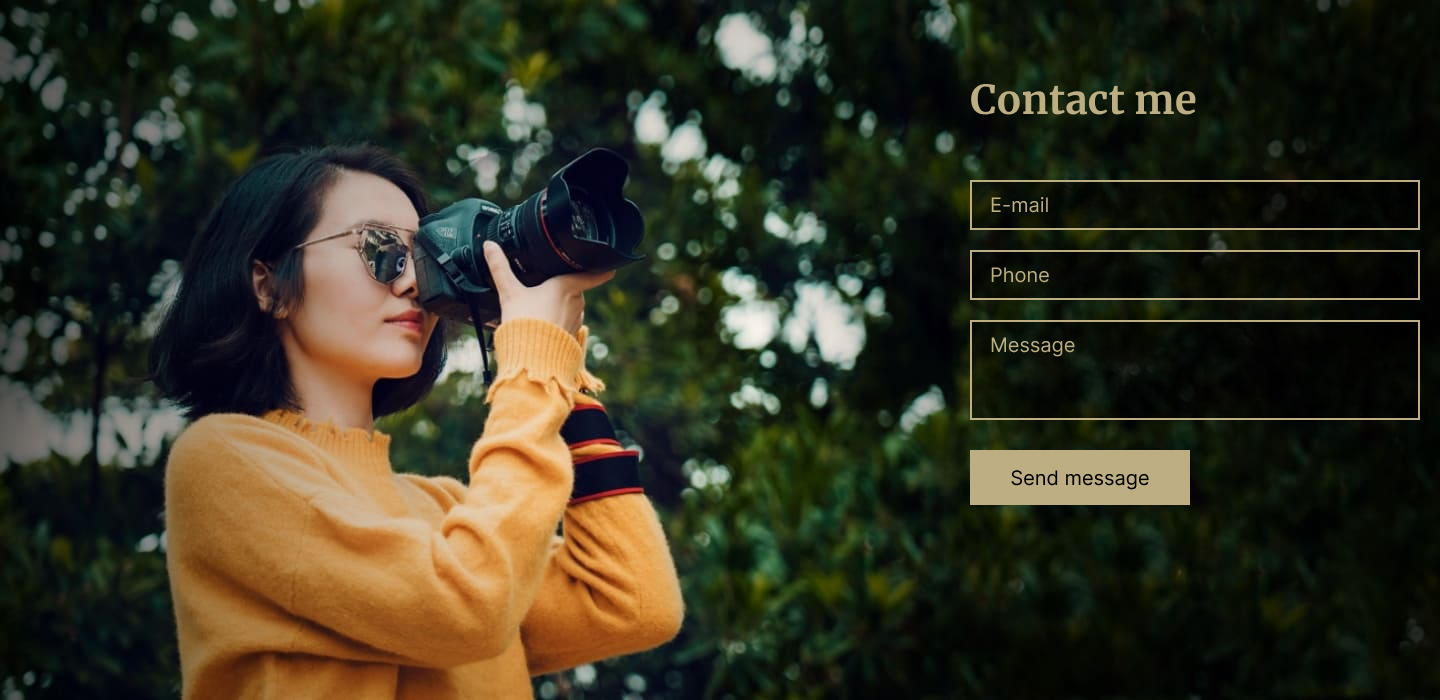
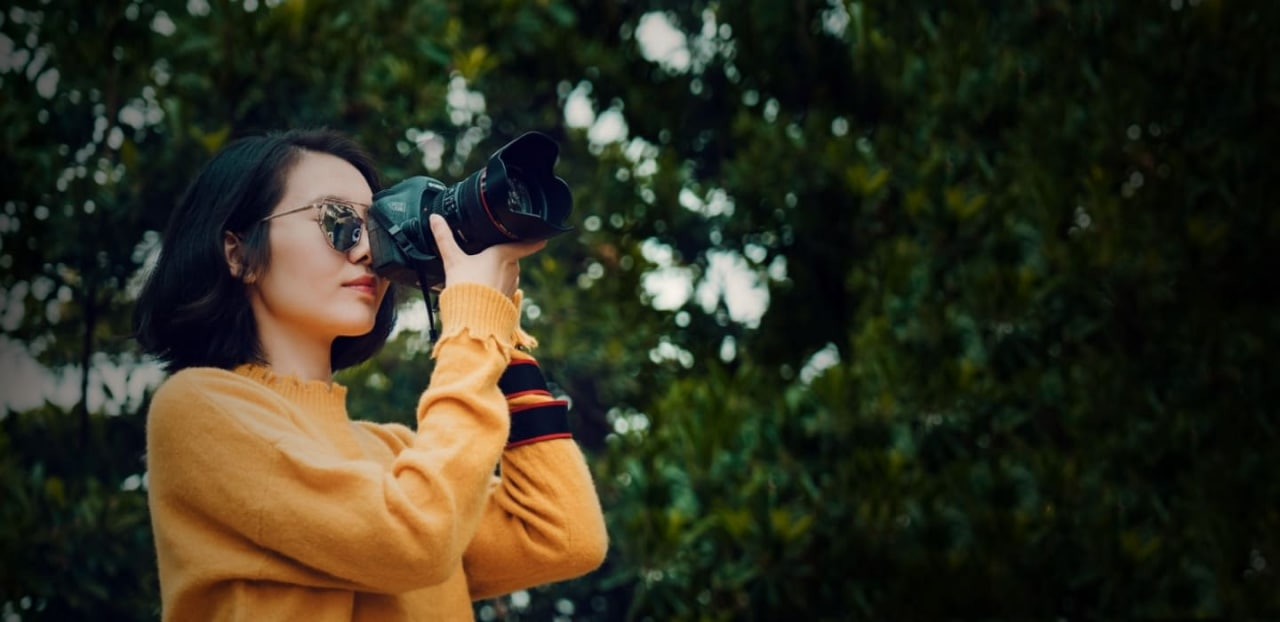
add all

Changed region(s): [[0.6562, 0.2444, 1.0, 0.6109], [0.6562, 0.6415, 0.8438, 0.7331], [0.6562, 0.1222, 0.8438, 0.1833]]

diff --git a/assets/css/style.css b/assets/css/style.css
@@ -64,7 +64,7 @@ a {
   max-width: 1440px;
   margin: 0 auto;
   padding: 0 20px;
-  outline: 1px solid red; 
+  /* outline: 1px solid red;  */
 }
 .container {
   width: calc(100% - 40px);
@@ -143,7 +143,6 @@ font-family: Inter;
   cursor: pointer;
   color:#FFFFFF;
 }
-
 .language:not(:last-child) {
  margin-right: 8px; 
 }*/
@@ -192,14 +191,13 @@ color: #ffffff;
 /* section */
 .skills {
    padding-top: 100px;
-   outline: 1px solid yellowgreen; 
 }
 .wrapper  {
    position: relative;
    display: flex;
    justify-content: center;
 }
-.wrapper:before {
+.wrapper::before {
    content:'';
    display:block;
    width: 700px;
@@ -285,7 +283,6 @@ color: #ffffff;
 /* section */
 .portfolio {
     padding-top: 100px;  
-    border: 1px solid yellow; 
 }
 
 .button-list {
@@ -355,7 +352,6 @@ color: #ffffff;
 /* ================== price ====================== */
 .price {
   padding-top: 100px;
-  outline: 1px solid blueviolet;
 }
 .price-block {
   display: flex;
@@ -367,10 +363,8 @@ color: #ffffff;
 .price-cart {
   display: block;
   width: 450px;
-  /* height: 505px; */
   padding-top: 43px;
   padding-bottom: 43px;
-   outline: 1px solid red;
 }
 .price-title {
 font-family: Merriweather;
@@ -426,10 +420,18 @@ color: hsl(0, 0%, 100%);
   background: url('../img/contacts.jpg');
   background-size: auto 700px;
   background-position: center center;
+
+height: 700px;
+}
+.wrapper-contacts  {
+  display: flex;
+  justify-content: flex-end;
+  align-items: center;
 }
 .form-contacts { 
   width: 450px;
   height: 445px; 
+  margin-top: 60px;
  }
 .form-title {
   margin-bottom: 40px; 
@@ -462,7 +464,6 @@ color: hsl(0, 0%, 100%);
   font-weight: normal;
   font-size: 20px;
   line-height: 40px;
-  margin-bottom: 20px;
   background: rgba(0, 0, 0, 0.5);
   border: 2px solid #BDAE82;
   box-sizing: border-box;

diff --git a/index.html b/index.html
@@ -51,6 +51,7 @@
                         </a>
                     </li>
                 </ul>
+
             </nav>
         </div>
     </header>
@@ -189,15 +190,15 @@
         <!-- CONTACTS -->
         <section class="contacts" id="contacts">
             <div class="container">
-
-                <form class="form-contacts">
-                    <h2 class="section-title form-title">Contact me</h2>
-                    <input class="input" type="email" name="mail" id="contact-mail" placeholder="E-mail" />
-                    <input class="input" type="tel" name="phone" id="contact-phone" placeholder="Phone">
-                    <textarea class="textarea" name="comment" placeholder="Message"></textarea>
-                    <button class="form-button" type="button">Send message</button>
-                </form>
-
+                <div class="wrapper-contacts">
+                    <form class="form-contacts">
+                        <h2 class="section-title form-title">Contact me</h2>
+                        <input class="input" type="email" name="mail" id="contact-mail" placeholder="E-mail" />
+                        <input class="input" type="tel" name="phone" id="contact-phone" placeholder="Phone">
+                        <textarea class="textarea" name="comment" placeholder="Message"></textarea>
+                        <button class="form-button" type="button">Send message</button>
+                    </form>
+                </div>
             </div>
         </section>
         <!-- end container -->
